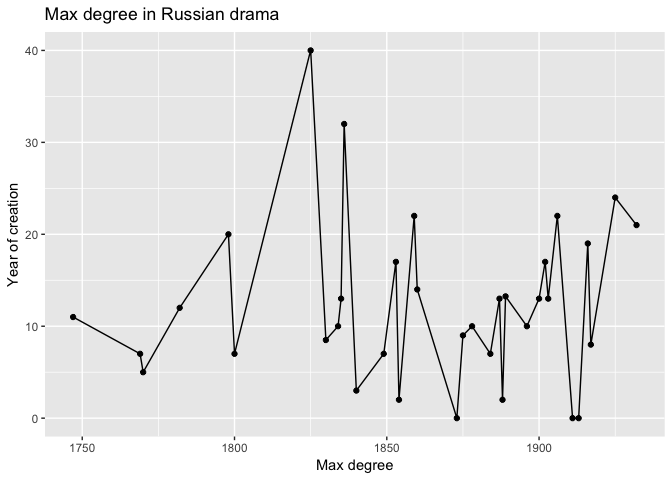
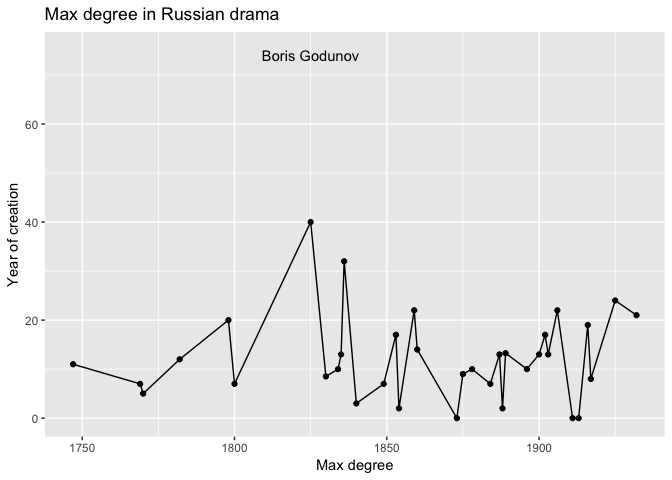
commit

diff --git a/Calculating_stuff_in_plays/Visualization.md b/Calculating_stuff_in_plays/Visualization.md
@@ -37,6 +37,7 @@ char_data %>% ggplot(aes(Year_of_creation, x)) +
 
 ``` r
 scenes_data <- aggregate(data[, 3], list(Year_of_creation=data$Year_of_creation), mean)
+BG <- subset(char_data, Year_of_creation == "1825")
 
 scenes_data %>% ggplot(aes(Year_of_creation, x)) +
   geom_point() +
@@ -50,19 +51,12 @@ scenes_data %>% ggplot(aes(Year_of_creation, x)) +
 ### This graph shows how the maximum degree of a character in plays was changing from 1750 to 1950. The observations are the mean number of max degree in plays of a particular year.
 
 ``` r
-data[, 6]
-```
-
-    ##  [1]  0 29 37 24 11  9 13 12  2 11  3  2 13 27  1 13 13  7 12 10  3 35 87
-    ## [24]  2  4 13 21 17  0 19  0  8  7 20 17 10 22  0  7  9 14  1 40 13  4  5
-    ## [47] 11  8  3
-
-``` r
 degree_data <- aggregate(data[, 6], list(Year_of_creation=data$Year_of_creation), mean)
 
 degree_data %>% ggplot(aes(Year_of_creation, x)) +
   geom_point() +
   geom_line() + scale_x_continuous(breaks=seq(1700, 1950, 50)) +
+  geom_text(data=BG, label="Boris Godunov", vjust=1) +
   labs(title='Max degree in Russian drama',
        x='Max degree', y='Year of creation')
 ```
